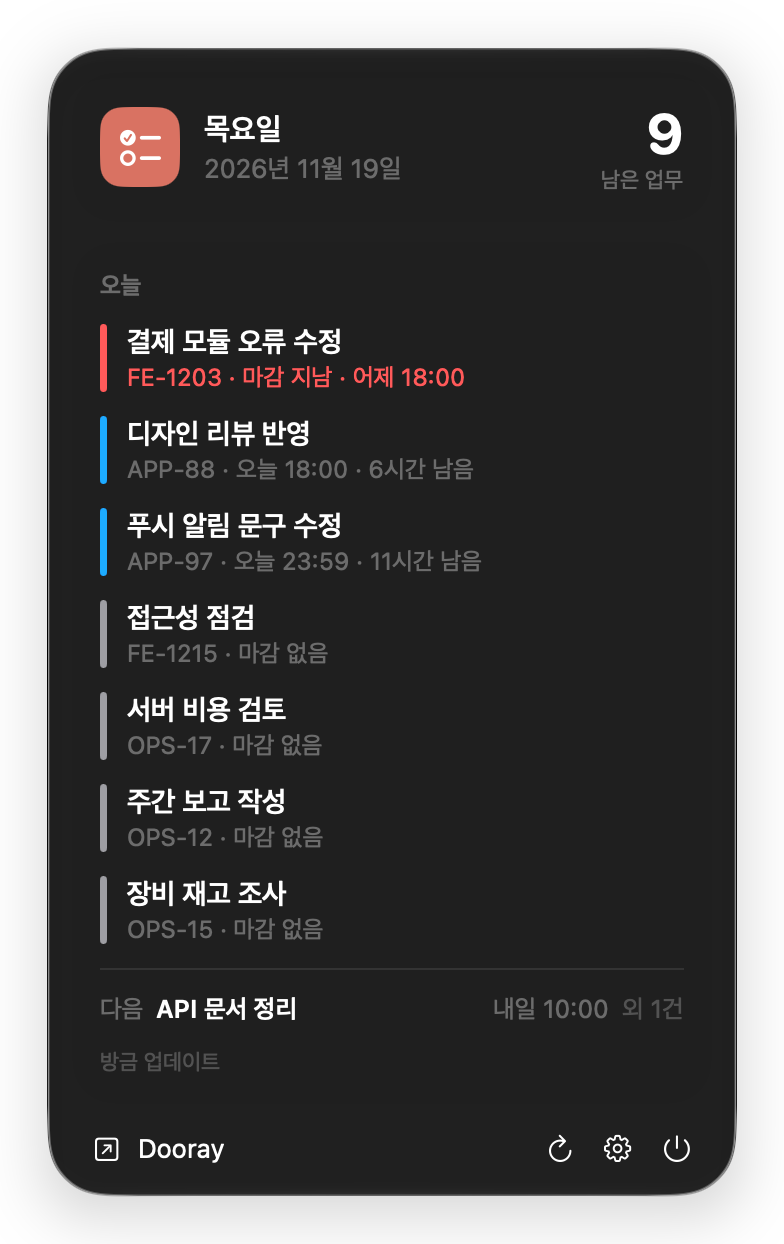
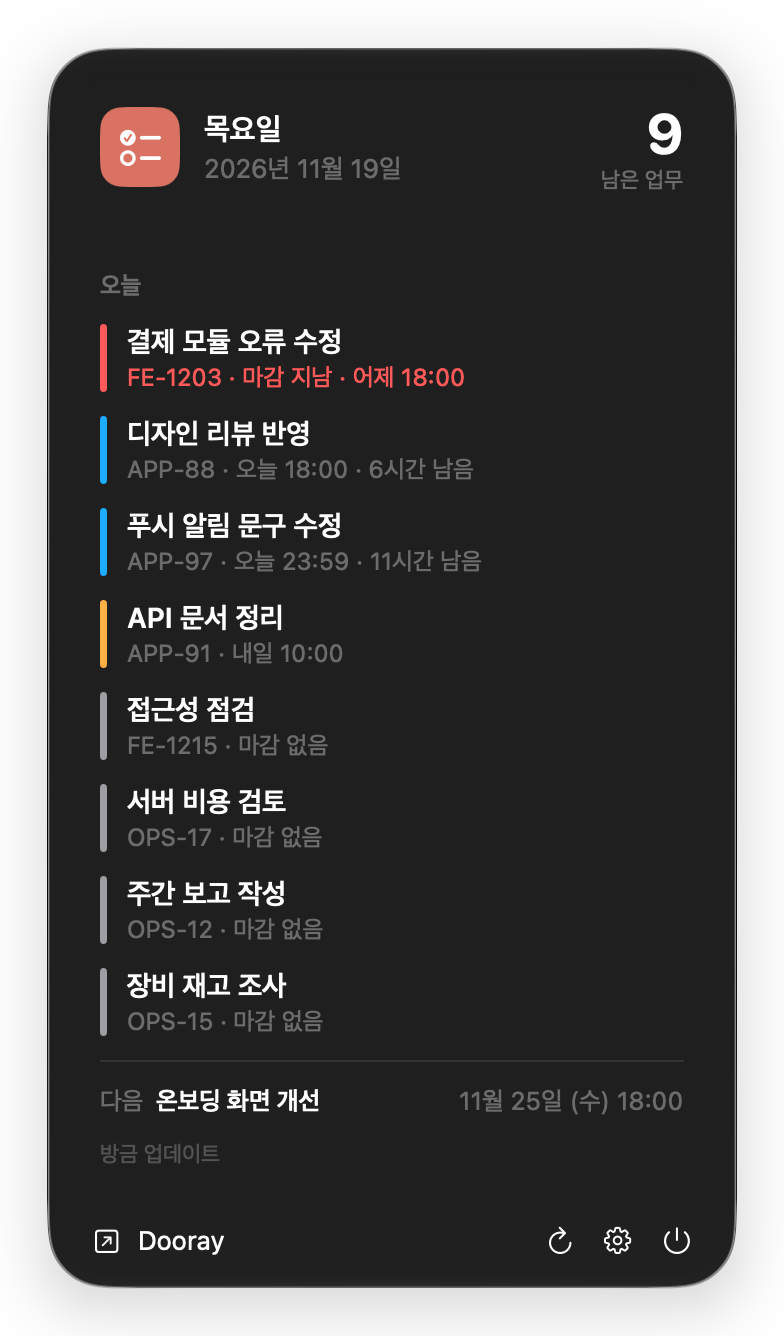
Show work in progress in today's list
A task whose own state is working now sits in the today list even when
its deadline is after today, between the tasks due today and the ones
without a deadline. The next line keeps only upcoming tasks that have
not started. Before, an in-progress task due tomorrow showed only on
the next line, so the today list could say there was nothing to do.

diff --git a/Tests/ToDoorayAppTests/PresentationTests.swift b/Tests/ToDoorayAppTests/PresentationTests.swift
@@ -80,30 +80,48 @@ private func title(_ state: AppState, at now: Date = noon, filter: TaskFilter = 
         #expect(header == PanelModel.Header(weekday: "목요일", date: "2026년 11월 19일", openCount: 9))
     }
 
-    @Test func todayListHoldsEverythingButUpcomingInContractOrder() throws {
+    @Test func todayListHoldsEverythingButUpcomingTasksNotStartedInContractOrder() throws {
         guard case .tasks(let today, let next) = panel(loaded(try basicTasks())).body else {
             Issue.record("expected a task list")
             return
         }
         #expect(today.map(\.id) == [
-            "5000000000000000001", "5000000000000000004", "5000000000000000007",
+            "5000000000000000001", "5000000000000000004", "5000000000000000007", "5000000000000000005",
             "5000000000000000003", "5000000000000000011", "5000000000000000009", "5000000000000000010",
         ])
         #expect(today.map(\.detail) == [
             "FE-1203 · 마감 지남 · 어제 18:00",
             "APP-88 · 오늘 18:00 · 6시간 남음",
             "APP-97 · 오늘 23:59 · 11시간 남음",
+            "APP-91 · 내일 10:00",
             "FE-1215 · 마감 없음",
             "OPS-17 · 마감 없음",
             "OPS-12 · 마감 없음",
             "OPS-15 · 마감 없음",
         ])
         #expect(today.first?.subject == "결제 모듈 오류 수정")
-        #expect(today.map(\.urgency) == [.overdue, .dueToday, .dueToday, .noDue, .noDue, .noDue, .noDue])
+        #expect(today.map(\.urgency) == [.overdue, .dueToday, .dueToday, .upcoming, .noDue, .noDue, .noDue, .noDue])
 
-        #expect(next?.task.id == "5000000000000000005")
-        #expect(next?.subject == "API 문서 정리")
-        #expect(next?.when == "내일 10:00")
+        #expect(next?.task.id == "5000000000000000008")
+        #expect(next?.subject == "온보딩 화면 개선")
+        #expect(next?.when == "11월 25일 (수) 18:00")
+        #expect(next?.moreCount == 0)
+    }
+
+    @Test func workInProgressStaysInTodayWhateverItsDeadline() {
+        let state = loaded([
+            task("1", due: "2026-11-20T23:59:00+09:00", state: .working),
+            task("2", due: "2026-11-20T09:00:00+09:00"),
+            task("3", due: "2026-11-21T09:00:00+09:00"),
+            task("4", state: .working),
+        ])
+        guard case .tasks(let today, let next) = panel(state).body else {
+            Issue.record("expected a task list")
+            return
+        }
+        #expect(today.map(\.id) == ["1", "4"])
+        #expect(today.first?.detail == "FE-1 · 내일 23:59")
+        #expect(next?.task.id == "2")
         #expect(next?.moreCount == 1)
     }
 

diff --git a/Sources/ToDoorayApp/Presentation.swift b/Sources/ToDoorayApp/Presentation.swift
@@ -154,8 +154,10 @@ struct PanelModel: Equatable {
         guard !items.isEmpty else {
             return PanelModel(header: header, body: .allDone, footer: footer, hiddenCount: hiddenCount)
         }
-        let upcoming = items.filter { $0.urgency == .upcoming }
-        let today = items.filter { $0.urgency != .upcoming }.map { item in
+        // Work already in progress belongs to today even when its deadline is later.
+        let belongsToday = { (item: AgendaItem) in item.urgency != .upcoming || item.task.state == .working }
+        let upcoming = items.filter { !belongsToday($0) }
+        let today = items.filter(belongsToday).map { item in
             Row(
                 task: item.task,
                 urgency: item.urgency,

diff --git a/Tests/ToDoorayAppTests/Support.swift b/Tests/ToDoorayAppTests/Support.swift
@@ -21,7 +21,8 @@ func task(
     subject: String = "업무",
     due: String? = nil,
     priority: Priority = .normal,
-    updated: String = "2026-11-18T10:00:00+09:00"
+    updated: String = "2026-11-18T10:00:00+09:00",
+    state: OpenState = .registered
 ) -> DoorayTask {
     DoorayTask(
         id: id,
@@ -33,7 +34,7 @@ func task(
         priority: priority,
         dueDate: due.map(at),
         updatedAt: at(updated),
-        state: .registered,
+        state: state,
         isDirectlyAssigned: direct
     )
 }
